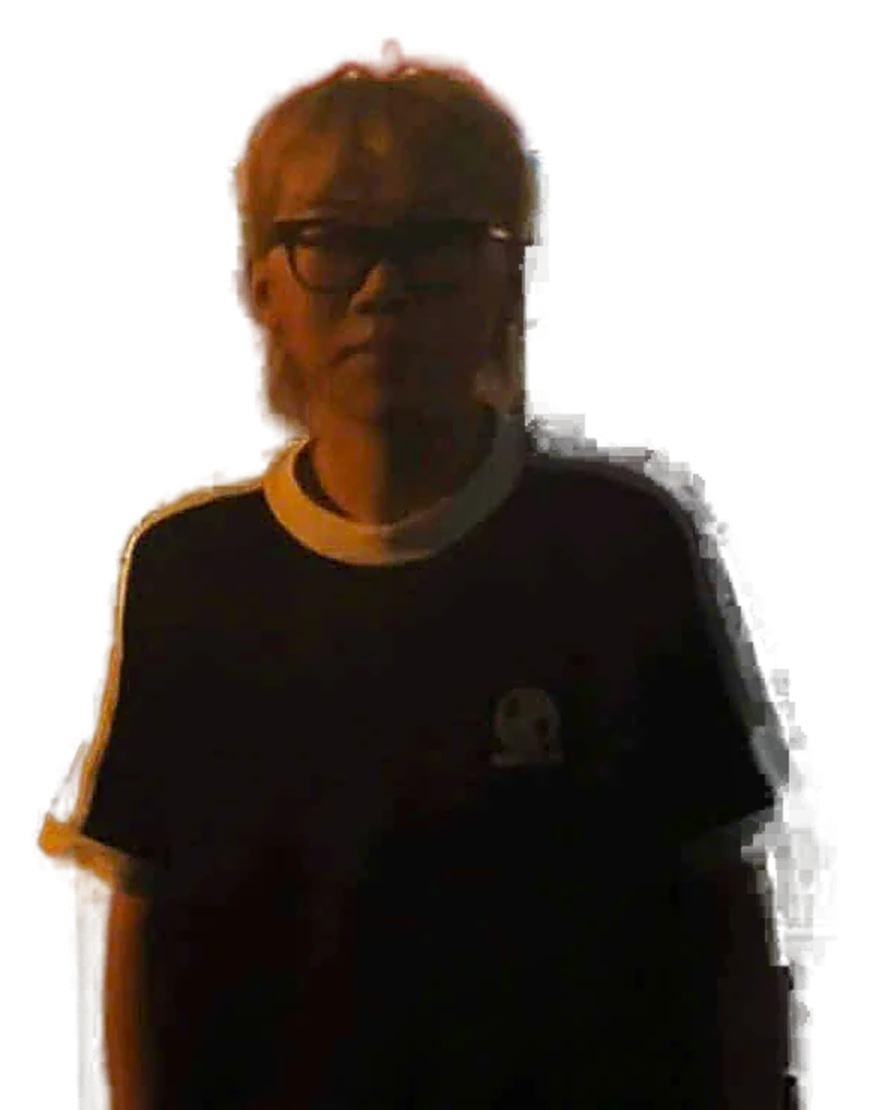
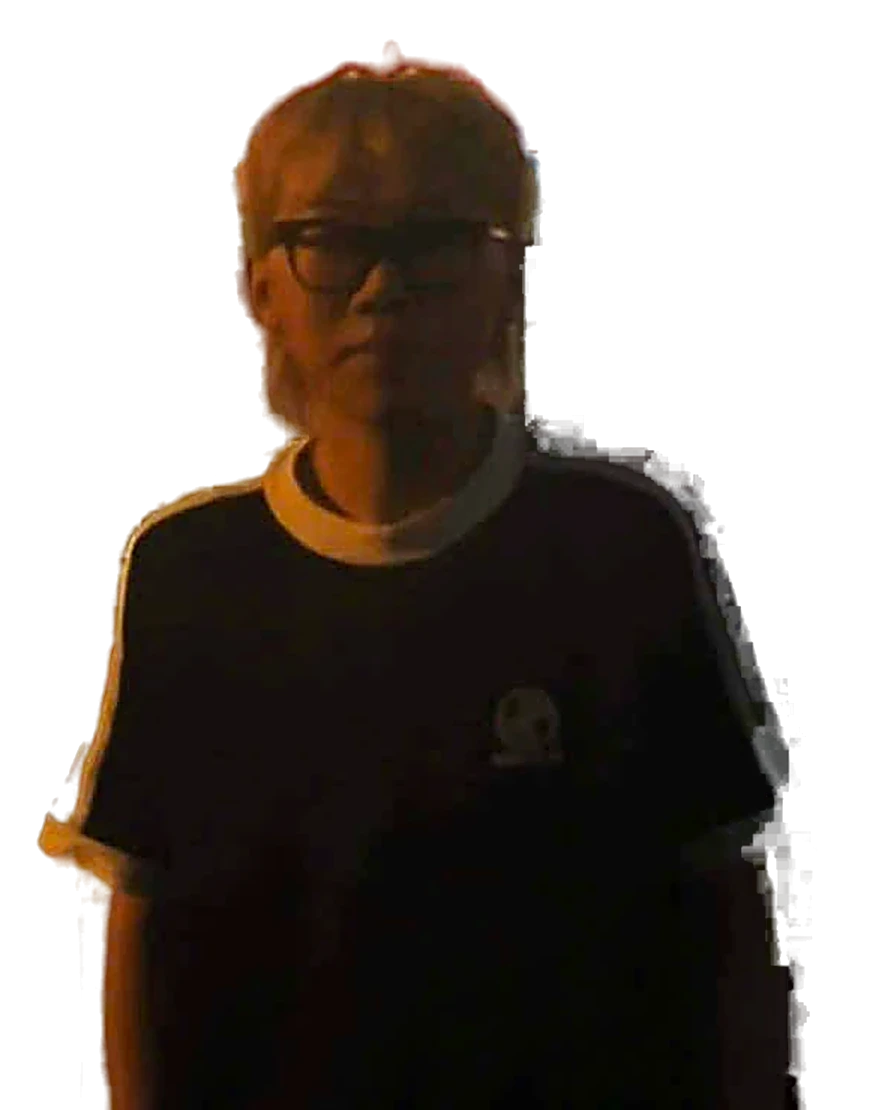
style: smaller portrait below the name, no box artifacts (#16)
Moves the HOAI MY wordmark to the top of the hero and in front of the
portrait, shrinks the portrait so it sits beneath the name without
covering it, and removes the drop-shadow/ghost blending that drew a dark
rectangle around the cut-out; low alpha noise in the cut-out is cleaned.

Claude-Session: https://claude.ai/code/session_01Y4EaCWH2VThd7qnie6LvuH

diff --git a/styles.css b/styles.css
@@ -71,18 +71,18 @@ mark::before { content: ""; position: absolute; inset: .1em -.02em .04em; z-inde
 /* Home: giant name behind the cut-out portrait, an outline copy in front */
 .home { position: relative; justify-content: flex-end; padding-top: 90px; padding-bottom: 48px; }
 .hero-stage { position: relative; height: min(72svh, 760px); display: grid; place-items: end center; perspective: 1000px; }
-.hero-name { position: absolute; left: 50%; top: 30%; translate: -50% 0; margin: 0; display: flex; gap: .08em; font-size: clamp(5rem, 18vw, 17rem); font-weight: 900; line-height: .8; letter-spacing: -.06em; white-space: nowrap; pointer-events: none; user-select: none; }
+.hero-name { position: absolute; z-index: 3; left: 50%; top: 6%; translate: -50% 0; margin: 0; display: flex; gap: .08em; font-size: clamp(5rem, 18vw, 17rem); font-weight: 900; line-height: .8; letter-spacing: -.06em; white-space: nowrap; pointer-events: none; user-select: none; }
 .hn { display: inline-block; transform: translateX(var(--px, 0)); transition: transform .2s linear; }
 .hero-name .hn-1 { color: #f4f1ec; }
 .hero-name .hn-2 { color: #ff7a1f; }
 .hero-glow { position: absolute; left: 50%; bottom: 0; width: min(50vw, 560px); transform: translateX(var(--gx2, 0)); aspect-ratio: 1; translate: -50% 35%; border-radius: 50%; background: radial-gradient(closest-side, rgba(255,122,31,.55), rgba(255,94,26,.18) 55%, transparent); filter: blur(10px); z-index: 1; animation: breathe 6s ease-in-out infinite; }
 @keyframes breathe { 50% { scale: 1.08; opacity: .8; } }
 /* Smaller, sharper portrait that sways side to side, follows the pointer and slides on scroll */
-.cutout-wrap { position: relative; z-index: 2; height: 66%; aspect-ratio: 870 / 1110; transform: translate3d(calc(var(--mx, 0px) + var(--sx, 0px)), var(--cy, 0), 0) rotateY(var(--ry, 0deg)) rotateZ(var(--rz2, 0deg)); transform-origin: bottom center; transition: transform .5s cubic-bezier(.2, .8, .2, 1); animation: sway 7s ease-in-out infinite; perspective: 900px; }
+.cutout-wrap { position: relative; z-index: 2; height: 46%; aspect-ratio: 870 / 1110; transform: translate3d(calc(var(--mx, 0px) + var(--sx, 0px)), var(--cy, 0), 0) rotateY(var(--ry, 0deg)) rotateZ(var(--rz2, 0deg)); transform-origin: bottom center; transition: transform .5s cubic-bezier(.2, .8, .2, 1); animation: sway 7s ease-in-out infinite; perspective: 900px; }
 @keyframes sway { 0%, 100% { translate: -4vw 0; } 50% { translate: 4vw -6px; } }
-.cutout { position: absolute; inset: 0; width: 100%; height: 100%; object-fit: contain; object-position: bottom; filter: drop-shadow(0 0 30px rgba(255,122,31,.35)) contrast(1.04); -webkit-mask-image: linear-gradient(#000 86%, transparent); mask-image: linear-gradient(#000 86%, transparent); animation: rise-in 1.4s cubic-bezier(.16, 1, .3, 1) .2s both; }
+.cutout { position: absolute; inset: 0; width: 100%; height: 100%; object-fit: contain; object-position: bottom; filter: contrast(1.04); -webkit-mask-image: linear-gradient(#000 86%, transparent); mask-image: linear-gradient(#000 86%, transparent); animation: rise-in 1.4s cubic-bezier(.16, 1, .3, 1) .2s both; }
 /* An orange after-image trails behind when the portrait moves */
-.cutout-ghost { filter: brightness(0) sepia(1) saturate(8) hue-rotate(-12deg) blur(2px); opacity: .35; transform: translateX(var(--gx, 0)); transition: transform .9s cubic-bezier(.2, .8, .2, 1); mix-blend-mode: screen; }
+.cutout-ghost { filter: brightness(.5) sepia(1) saturate(6) hue-rotate(-15deg); opacity: .4; transform: translateX(var(--gx, 0)); transition: transform .9s cubic-bezier(.2, .8, .2, 1); }
 @keyframes rise-in { from { opacity: 0; transform: translateY(12%) scale(.96); } }
 .hero-bottom { position: relative; z-index: 4; display: flex; justify-content: space-between; align-items: flex-end; gap: 2rem; margin-top: -3rem; }
 .hero-copy .index { margin-bottom: .6rem; }
@@ -225,7 +225,8 @@ footer { display: flex; justify-content: space-between; align-items: center; gap
   .note-name { font-size: 2.6rem; }
   main { width: calc(100% - 32px); }
   .site-header { padding-inline: 16px; }
-  .hero-name { font-size: 22vw; top: 34%; }
+  .hero-name { font-size: 22vw; top: 10%; }
+  .cutout-wrap { height: 52%; }
   .numbers { gap: 1.6rem; }
   .work, .paper { grid-template-columns: 1fr; gap: .4rem; }
   .year { grid-row: auto; }
